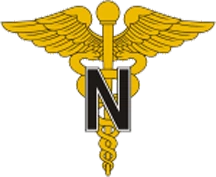
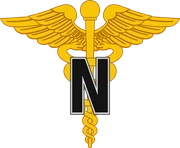
Sharper Nurse Corps insignia, bigger emblems, shorter README
- Army Nurse Corps insignia rebuilt from the vector Medical Corps caduceus
  with its black "N", so it's as crisp as the other emblems
- Branch emblems bigger in the brick card and the name list
- README cut down to what the site is and where it lives. How to start the
  editor is now at the top of js/editor.js

Changed region(s): [[0.0, 0.0, 1.0, 1.0]]

diff --git a/js/editor.js b/js/editor.js
@@ -1,6 +1,7 @@
 /*
- * editor.js: add, edit and move bricks right on the map. Loaded when the site
- * is running on your own computer and the address ends in ?edit.
+ * editor.js: add, edit and move bricks right on the map. It only loads on your
+ * own computer: in this folder run `python3 -m http.server 8000`, then open
+ * http://localhost:8000/?edit.
  *
  * Edits are kept in this browser until you click Save, which writes a fresh
  * data/bricks.js. Pick that file the first time, and after that Save just works.

diff --git a/README.md b/README.md
@@ -2,105 +2,6 @@
 
 Find an engraved brick in the memorial plaza at American Legion Post 779
 (2928 Earlystown Rd, Centre Hall, PA). Visitors scan the QR code on the
-monument, type a name, and a red pin shows where the brick is. Links to a
-brick (`…/legion-bricks/#robert-h-barnes`) can be shared.
+monument, type a name, and a red pin shows where the brick is.
 
-Live site: https://pjpuzzler.github.io/legion-bricks/
-
-## Adding or moving bricks
-
-Everything happens on the map in the built-in editor. It only runs on your own
-computer; `?edit` does nothing on the public site. Start the site locally
-(see [Running it locally](#running-it-locally)) and open
-http://localhost:8000/?edit. Then:
-
-| To…                  | Do this                                                                                   |
-| -------------------- | ----------------------------------------------------------------------------------------- |
-| add a brick          | click the empty brick where it is and type its lines, **or** type the name in the search box, press Enter, then click its spot |
-| fix a brick's text   | click it (or find it in the list) and edit the fields. Type it as engraved                |
-| move a brick         | drag it. Dropping it onto another brick swaps the two. Arrow keys nudge the selected brick one spot |
-| take a brick out     | **Take off map** keeps the brick in a "Not on the map" list; **Delete brick** removes it  |
-| match a photo        | zoom in until names show on the bricks; ⟳ turns the map to the angle the photo was taken from |
-| undo                 | ⌘Z / Ctrl+Z (⇧⌘Z / Ctrl+Y to redo)                                                        |
-
-Keys: **N** new brick, **M** move the selected brick, **Esc** cancel, **⌘S / Ctrl+S** save.
-In the search box, **Shift+Enter** adds a new brick even when the name matches one already there.
-
-If the whole plaza gets rearranged: **More → Take every brick off the map**, then
-place them again. The "Not on the map" list at the top shows what's left.
-
-### Saving and publishing
-
-1. Click **Save**. In Chrome or Edge, pick `data/bricks.js` in this folder the
-   first time. After that, Save writes straight to it. Other browsers download
-   `bricks.js` instead, so move it into the `data` folder.
-2. Publish:
-
-   ```bash
-   git add data/bricks.js && git commit -m "Update bricks" && git push
-   ```
-
-   GitHub Pages updates the live site a minute or two later. Someone who
-   already had the site open may see the old version for up to 10 minutes.
-
-Edits stay in your browser until you save, even if you close the tab.
-
-## The data file
-
-`data/bricks.js` has one line per brick:
-
-```js
-{ first: "ROBERT H", last: "BARNES", lines: ["U S ARMY", "WORLD WAR II"], at: "45-9" },
-```
-
-- `first`, `last`: the name as engraved. The last name is used for sorting.
-- `lines`: the other engraved lines, top to bottom.
-- `at`: the spot on the map (a row-column on the herringbone grid). The editor
-  fills this in. Leave it out for a brick that isn't placed yet.
-- `color: "gray"`: the gray bricks.
-- `emblem`: only needed to override the emblem read from the text
-  (`"U S NAVY"` shows the Navy emblem on its own). Use a name like `"navy"`, or `"none"`.
-
-Hand edits are fine. The editor points out problems such as two bricks on the
-same spot.
-
-## Changing the drawing
-
-The plaza's shape (wall radius, straight walls, walkway, monument, flagpoles,
-shrubs, parking spaces) is in `SHAPE` at the top of `js/plan.js`, measured in
-brick widths. Leave the herringbone `PATTERN` alone: changing it would move
-every brick.
-
-To add a branch emblem, put a square image in `img/emblems/` and add it to
-`EMBLEMS` and `EMBLEM_RULES` in `js/model.js`.
-
-The service seals, the Air Corps and Nurse Corps insignia, and the American
-Legion emblem come from public-domain files on Wikimedia Commons. The seals are
-saved as 160 px WebP (they show at up to 46 px) and the Legion emblem as
-300 px. The favicon, the iPhone home-screen icon and the link preview
-(`img/share.jpg`) are made from that emblem.
-
-## Running it locally
-
-There's no build step. From this folder:
-
-```bash
-python3 -m http.server 8000
-```
-
-then open http://localhost:8000 (or http://localhost:8000/?edit).
-
-## Files
-
-| File              | What's in it                                             |
-| ----------------- | -------------------------------------------------------- |
-| `data/bricks.js`  | the brick list                                           |
-| `js/plan.js`      | the plaza's layout and the herringbone grid              |
-| `js/model.js`     | brick records, emblems, search, writing the data file    |
-| `js/map.js`       | drawing the plaza, plus pan, zoom and rotate             |
-| `js/app.js`       | the finder: search, list, brick card                     |
-| `js/editor.js`    | the editor (only loaded locally, with `?edit`)           |
-| `css/style.css`   | styles                                                   |
-| `img/`            | Legion emblem, icons, branch emblems, link preview       |
-| `404.html`        | the page shown for a broken link                         |
-| `.nojekyll`       | tells GitHub Pages to publish the files as they are      |
+https://pjpuzzler.github.io/legion-bricks/
